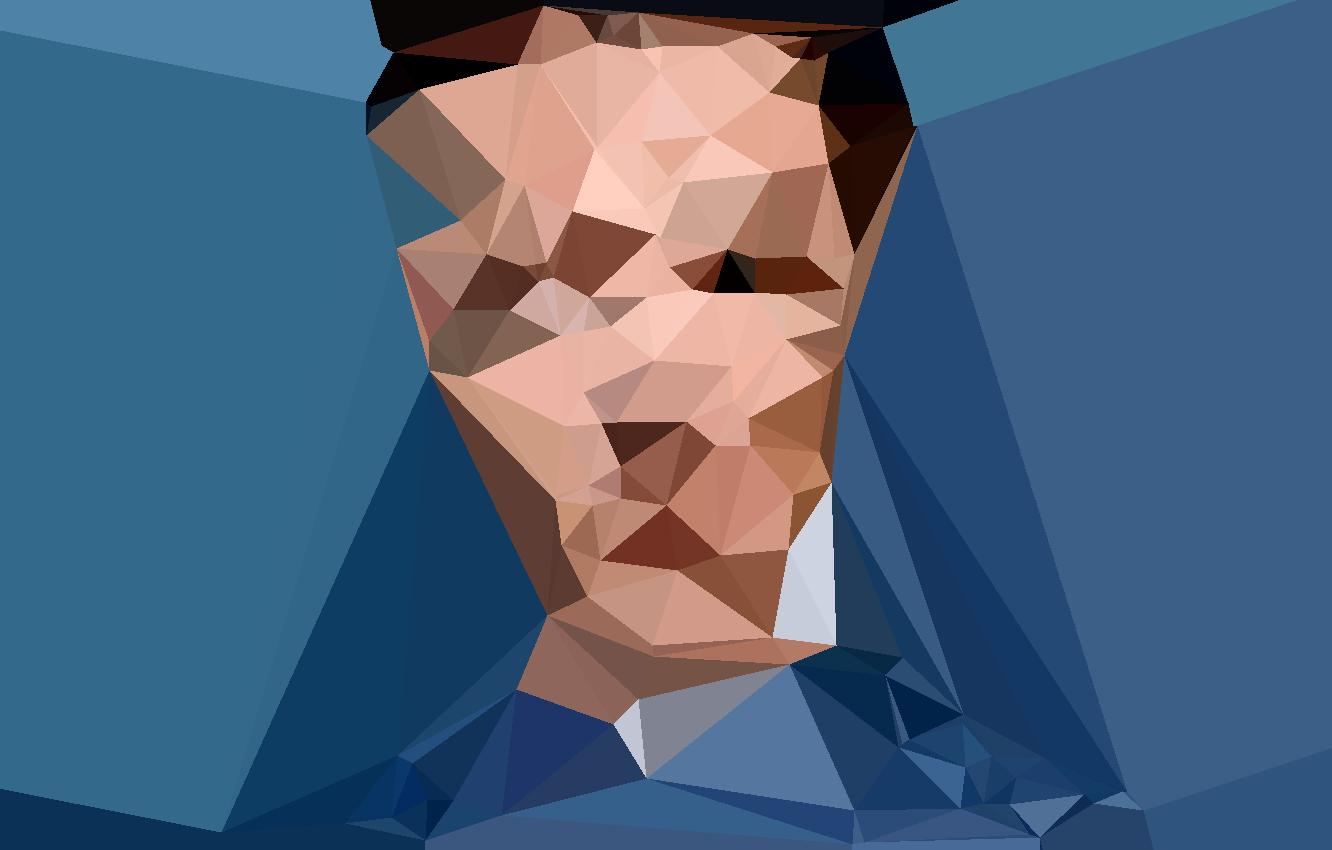
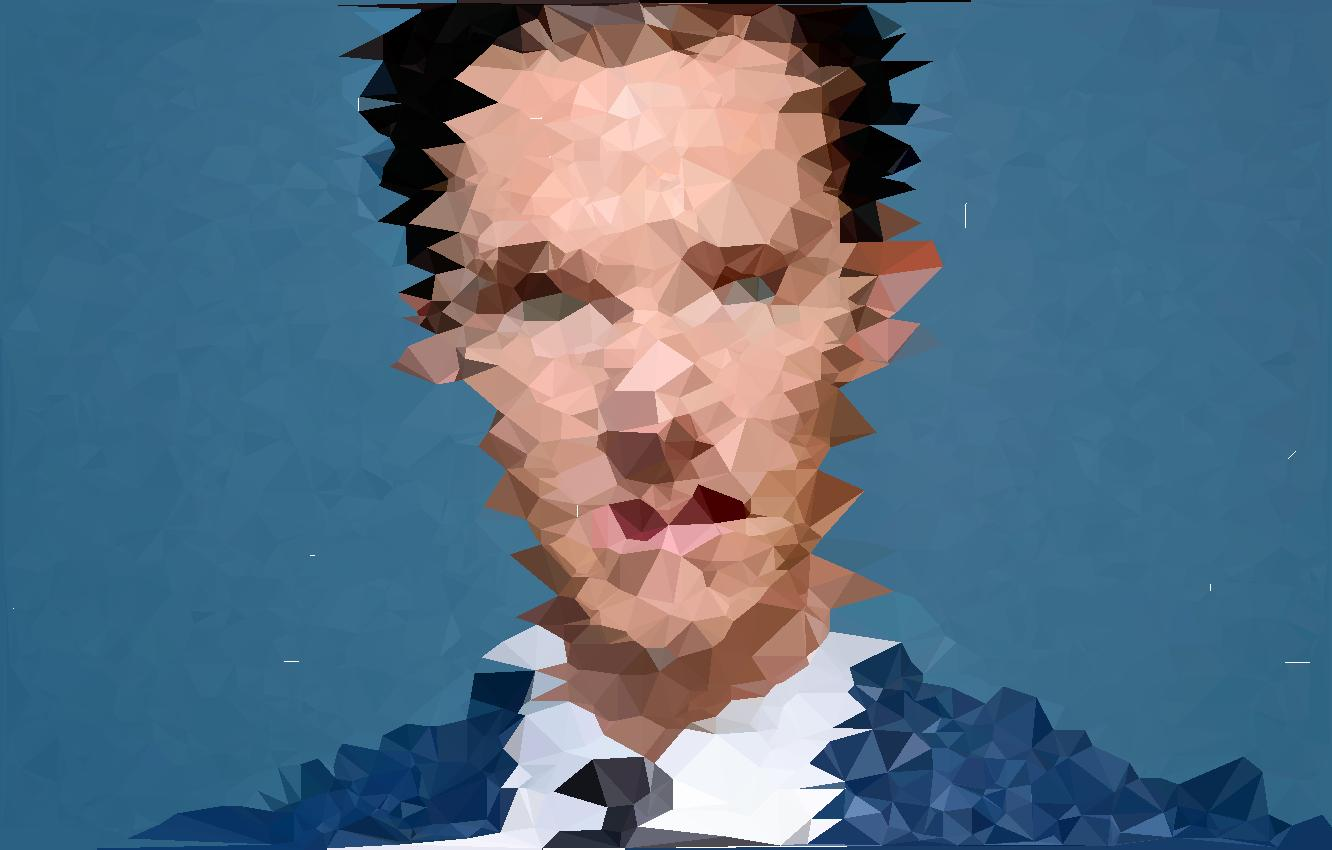
Cumberbatch

diff --git a/src/main/java/de/longuyen/core/voronoi/AdvancedVoronoi.java b/src/main/java/de/longuyen/core/voronoi/AdvancedVoronoi.java
@@ -1,6 +1,7 @@
 package de.longuyen.core.voronoi;
 
 import de.longuyen.core.Transformer;
+import de.longuyen.core.convolution.Mean;
 import de.longuyen.core.convolution.Sobel;
 import de.longuyen.core.statistics.InterQuartile;
 import de.longuyen.core.utils.Vector2D;
@@ -30,8 +31,10 @@ public class AdvancedVoronoi extends SimpleVoronoi {
 
     @Override
     public List<Vector2D> generatePoints(BufferedImage bufferedImage) {
-        Transformer convolution = new Sobel(new Sobel.Parameters(this.parameters.times));
-        BufferedImage edgeEnhancedImage = convolution.convert(bufferedImage);
+        Transformer mean = new Mean();
+        Transformer sobel = new Sobel(new Sobel.Parameters(this.parameters.times));
+        BufferedImage blurred = mean.convert(bufferedImage);
+        BufferedImage edgeEnhancedImage = sobel.convert(blurred);
         InterQuartile interQuartile = new InterQuartile(edgeEnhancedImage);
         int Q95 = interQuartile.getPercentile(this.parameters.range);
         List<Vector2D> candidates = new ArrayList<>();

diff --git a/src/main/java/de/longuyen/core/convolution/Mean.java b/src/main/java/de/longuyen/core/convolution/Mean.java
@@ -1,0 +1,12 @@
+package de.longuyen.core.convolution;
+
+import java.awt.image.Kernel;
+
+public class Mean extends Convolution  {
+    @Override
+    public Kernel kernel() {
+        return new Kernel(3, 3, new float[]{
+                1.f/9.f,  1.f/9.f,  1.f/9.f,  1.f/9.f,  1.f/9.f,  1.f/9.f,  1.f/9.f,  1.f/9.f,  1.f/9.f
+        });
+    }
+}

diff --git a/README.md b/README.md
@@ -20,6 +20,23 @@ Algorithm for playing around with images. Take a moment for a pause and a deep b
     </tr>
 </table>
 
+### Advanced Triangulation
+
+<table border="1" width="100%">
+    <tr>
+        <td><img src="images/cumberbatch.jpg" width="500"></td>
+        <td><img src="images/cumberbatch-output.jpg" width="500"></td>
+    </tr>
+    <tr>
+        <td><img src="images/hendrix.jpg" width="500"></td>
+        <td><img src="images/hendrix-output.png" width="500"></td>
+    </tr>
+    <tr>
+        <td><img src="images/ritchie.jpg" width="500"></td>
+        <td><img src="images/ritchie-output.jpg" width="500"></td>
+    </tr>
+</table>
+
 ### Polygon
 
 <table border="1" width="100%">
